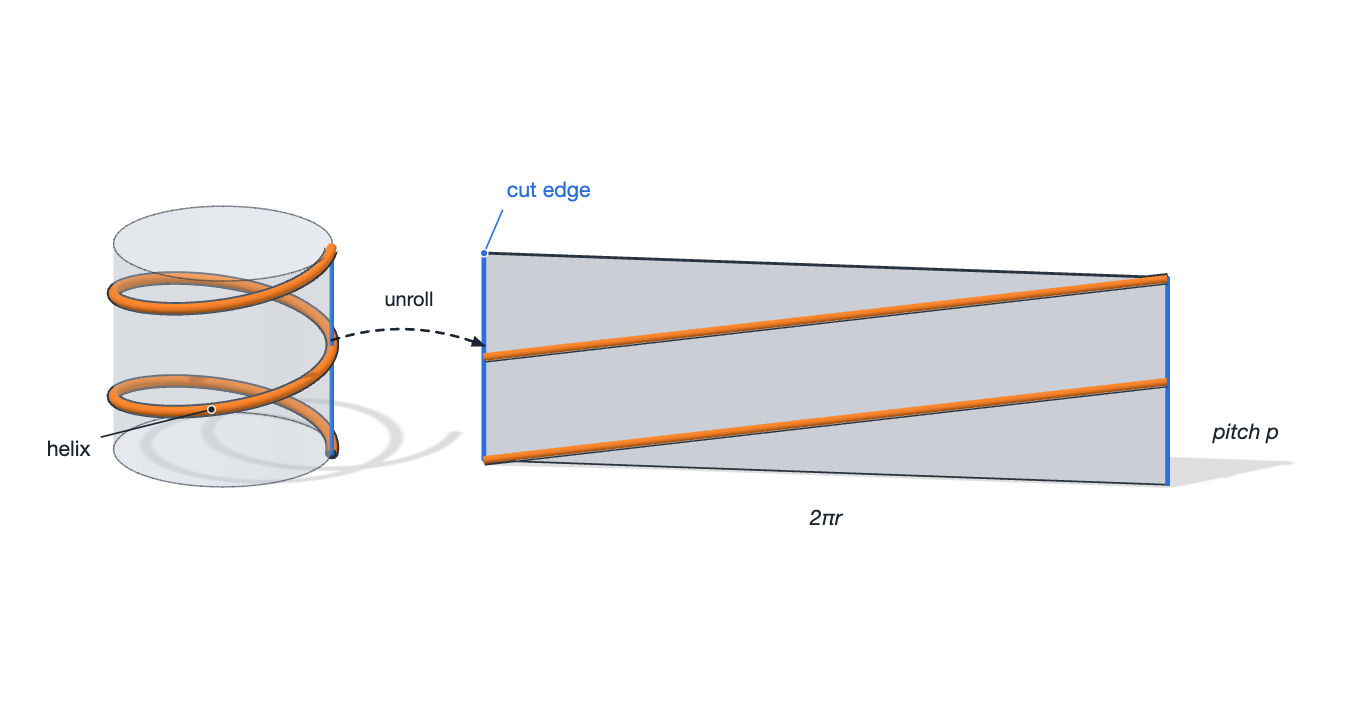
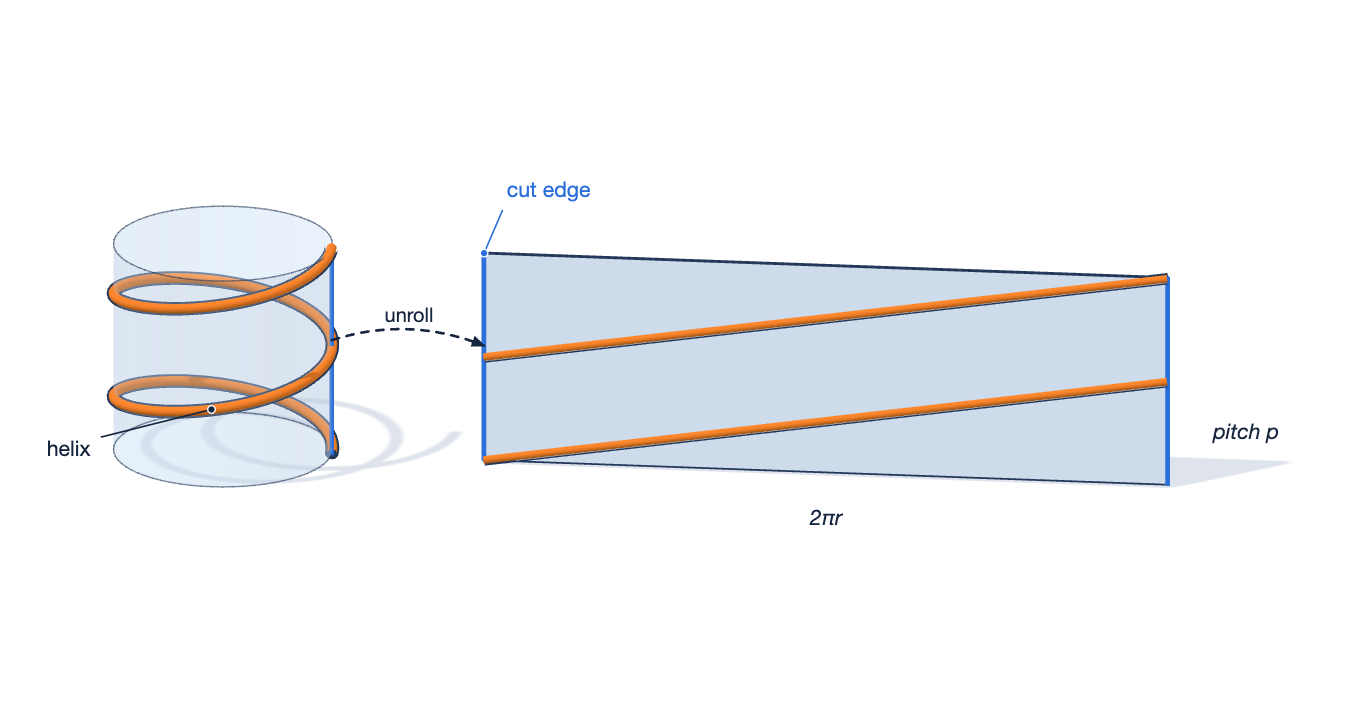
v1.0.1: remove grey defaults from the stage and add the unlit option
- Palette context colours are pale cool blues. The contact shadow has a
  blue tint (view option shadowColor). The default cap of a cut is darker
  and more saturated, not greyer.
- unlit: true draws a part in its exact colour with no shading and no
  shadow on it, for colours that carry a value.
- The guides tell the agent not to use grey and when to use unlit.

diff --git a/assets/gallery.html b/assets/gallery.html
@@ -35,7 +35,7 @@ dialog img{max-width:100%;height:auto;cursor:zoom-in}dialog img.native{max-width
 @media (prefers-reduced-motion:reduce){html{scroll-behavior:auto}}
 </style></head><body>
 <a class="skip" href="#atlas">Skip to the figures</a><main>
-<header class="intro"><p class="meta">MechanismFigures 1.0.0 · reference atlas</p>
+<header class="intro"><p class="meta">MechanismFigures 1.0.1 · reference atlas</p>
 <h1>See how it works.</h1>
 <p class="lead">42 published figures. Each one lets you predict what the system does next, from the picture alone. 37 of them do it in three dimensions. Read the title, open the image, and follow the three steps.</p>
 <p class="links"><a href="https://github.com/KumarNavish/MechanismFigures">Install the skill</a><a href="../SKILL.md">How the agent works</a><a href="../references/moves.md">The fifteen moves</a><a href="../THIRD_PARTY.md">Sources and rights</a></p></header>

diff --git a/SKILL.md b/SKILL.md
@@ -5,7 +5,7 @@ license: MIT for code and text. Third-party reference figures keep the licences 
 compatibility: The agent must be able to view images. The 3D stage needs Node 22 or later and an installed Chrome or Chromium. Reference lookup needs Python 3.9 or later. No network, model service or GPU is necessary.
 metadata:
   author: Navish Kumar
-  version: "1.0.0"
+  version: "1.0.1"
 ---
 
 # MechanismFigures
@@ -51,7 +51,7 @@ Write three lists.
 
 - **The persistent object.** One thing that the eye follows through the full figure: a ray, a residue pair, a cell, a sheet, a weight vector. It keeps its colour and its identity in each panel.
 - **The operation.** The one event that carries the explanation. It gets the strongest colour and the most space.
-- **The context.** All other items. They are grey, thin and quiet.
+- **The context.** All other items. They are pale, thin and quiet. Use the pale cool context colour of the palette. Do not use grey.
 
 For each item, record its status: **measured**, **simulated**, **derived from an equation**, or **schematic**. You will show this status in the figure. See [truth.md](references/truth.md).
 
@@ -113,7 +113,7 @@ node scripts/render.mjs figure.mjs --out out
 
 The renderer writes `figure.png`, `figure.svg` with editable labels, four detail tiles, a grayscale copy and a report.
 
-- **Pass A, blockout.** Grey primitives only. No colour, no labels. Set the camera. Render and look. The operation must be visible in grey. If it is not, change the construction or the camera. Do not continue.
+- **Pass A, blockout.** Primitives in the one pale context colour only. No strong colour, no labels. Set the camera. Render and look. The operation must be visible from shape alone. If it is not, change the construction or the camera. Do not continue.
 - **Pass B, meaning.** Give the persistent object and the operation their colours. Add ghosts, cuts, tethers, arrows and fields. Render and look.
 - **Pass C, words.** Add labels, panel letters and the minimum text. Render and look.
 
@@ -140,7 +140,7 @@ Stop when all seven questions pass and the figure is as clear as the references 
 ## Rules that do not bend
 
 - **Orthographic camera by default.** Parallel lines stay parallel and equal lengths stay equal in one direction. Use perspective only for a scene that a camera or an eye sees, and say so.
-- **One colour, one meaning, in all panels.** Grey is context. Do not add a colour that has no entry in your cast list.
+- **One colour, one meaning, in all panels.** Context is pale and cool, not grey. A colour that carries a value is `unlit`. Do not add a colour that has no entry in your cast list.
 - **Same camera for all states that the reader compares.** Change one thing only.
 - **Geometry from the source.** Use the real equation, coordinates or data when they exist. If you draw a schematic shape, label it as a schematic.
 - **Arrows have types.** A solid 3D arrow is a physical vector: a force, a flow, a ray. A flat overlay arrow is narrative: "then" or "becomes". Do not mix the two types in one style.

diff --git a/references/stage.md b/references/stage.md
@@ -40,7 +40,8 @@ export default function build(S, THREE, beat) { /* add objects */ }
 | `frame` | none | `{center, size}` in world units. Fixes the camera. Necessary for beats. |
 | `fov` | 0 | A value above 0 gives a perspective camera. Use it only for a scene that a camera sees. |
 | `ground` | true | `false` removes the shadow ground. A number sets its height. |
-| `shadow` | 0.13 | Opacity of the contact shadow |
+| `shadow` | 0.16 | Opacity of the contact shadow |
+| `shadowColor` | `palette.shade` | Colour of the contact shadow. The default is a deep blue, not black. |
 | `edgeWidth` | 0.28 | Outline width in millimetres |
 | `minFont` | 6.5 | The report warns below this size, in points |
 
@@ -62,9 +63,13 @@ All calls return a three.js object. You can set `position`, `rotation` and `scal
 | `S.arrow(a, b, opts)` | A solid 3D arrow. `radius`, `head`. |
 | `S.curve(points, opts)` | A line of constant width on the page. `width` in millimetres. `dash` in world units. |
 
-Options for solids: `color`, `opacity` (below 1 gives a ghost), `edges` (crease lines), `outline` (silhouette), `flat`, `roughness`, `side`, `id` (the name in the report), `parent`, `shadow` and `receive`.
+Options for solids: `color`, `opacity` (below 1 gives a ghost), `edges` (crease lines), `outline` (silhouette), `flat`, `roughness`, `side`, `id` (the name in the report), `parent`, `shadow`, `receive` and `unlit`.
 
 **Shadows and data.** A shadow on a cell or a field changes its tone, and the reader takes the tone for a value. `shadow: false` gives a part no shadow and lets no shadow fall on it. `receive: false` lets the part cast a shadow on the ground but keeps its own faces clean. Use `receive: false` for grids of cells, stacked slabs and all surfaces whose colour is data. `S.surface` with `value` does this automatically.
+
+**Exact colour.** Shading makes a colour darker, and a dark low value can look grey. `unlit: true` draws a part in its exact colour with no shading and no shadow on it. Use it on each surface or cell whose colour is a value. Keep `edges` on, or add a mesh of `S.curve` lines, so that the shape stays readable.
+
+**No grey.** The palette has no grey. `context` and `quiet` are pale cool blues, and the contact shadow has a blue tint (`shadowColor` in the view changes it). Do not set a grey colour for context.
 
 ## Operations
 
@@ -86,7 +91,7 @@ Labels are vector text on top of the render. Sizes are in points. Offsets are in
 
 ## Colour
 
-`S.palette` has `ink`, `line`, `context`, `quiet`, `focus`, `act`, `good`, `warn`, `violet` and `gold`. Import `ramps` and `ramp` from `'mf'` for fields: `ramps.viridis`, `ramps.magma`, `ramps.diverging`.
+`S.palette` has `ink`, `line`, `context`, `quiet`, `shade`, `focus`, `act`, `good`, `warn`, `violet` and `gold`. It has no grey. Import `ramps` and `ramp` from `'mf'` for fields: `ramps.viridis`, `ramps.magma`, `ramps.diverging`.
 
 ## Beats
 

diff --git a/references/moves.md b/references/moves.md
@@ -6,7 +6,7 @@ A move is a construction that makes an operation visible. Select the move from t
 
 **Shows** an operation inside a closed body.
 
-**Build.** Model the full body. Remove the part between the viewer and the operation with one plane, or with two planes for a quarter cut. Cap the section so that solid material looks solid. Keep the hidden operation in a strong colour and the body in grey.
+**Build.** Model the full body. Remove the part between the viewer and the operation with one plane, or with two planes for a quarter cut. Cap the section so that solid material looks solid. Keep the hidden operation in a strong colour and the body in the pale context colour.
 
 ```js
 const body = S.solid(geometry, {color: P.context});
@@ -104,10 +104,10 @@ S.sphere(samplePoint, 0.03, {color: P.act, outline: false});
 **Build.** Paint a scalar on the real surface with one colour ramp. For a vector field, draw arrows on a regular lattice or draw stream tubes. In a volume, show the field on two or three slice planes and on one isosurface. Give the ramp a legend with units. Use the diverging ramp only when zero has a meaning.
 
 ```js
-S.surface((u, v) => point(u, v), {value: (u, v, p) => field(p), range: [lo, hi], ramp: ramps.viridis});
+S.surface((u, v) => point(u, v), {value: (u, v, p) => field(p), range: [lo, hi], ramp: ramps.viridis, unlit: true});
 ```
 
-**Failures.** A rainbow ramp. Too many arrows. Light and shadow change the apparent value: for exact reading, add a flat panel of the same field.
+**Failures.** A rainbow ramp. Too many arrows. Light and shadow change the apparent value: set `unlit: true`, and for exact reading add a flat panel of the same field.
 
 **Study.** `zheng-hopfion`, `birch-skyrmion`, `graphcast`, `kennaway-growth`, `bioprint4d`.
 
@@ -137,7 +137,7 @@ S.surface((u, v) => point(u, v), {value: (u, v, p) => field(p), range: [lo, hi],
 
 **Build.** Draw the algebraic object as a block or a grid. Draw the things that the indices name. Use one colour for one entry in the two views. Highlight only the active terms.
 
-**Cells and slabs.** Draw a tensor as slabs of unit cells with a gap between slabs. Make each cell a thin box with crease lines. Give colour only to the cells that take part. Set `receive: false` on all cells, because a shadow on a cell looks like a different value.
+**Cells and slabs.** Draw a tensor as slabs of unit cells with a gap between slabs. Make each cell a thin box with crease lines. Give colour only to the cells that take part. Set `receive: false` on all cells, because a shadow on a cell looks like a different value. If the cell colour is a value, set `unlit: true`.
 
 ```js
 for (let c = 0; c < 3; c++) for (let i = 0; i < 6; i++) for (let j = 0; j < 6; j++)

diff --git a/references/critique.md b/references/critique.md
@@ -33,9 +33,11 @@ Write one sentence for each answer. Then repair the largest difference.
 | You see | Cause | Repair |
 |---|---|---|
 | The figure is a row of labelled boxes | No construction | Go back to step 4. Draw the object that the first box operates on. |
-| Everything has a strong colour | No cast list | Make all context grey. Give colour to two things only. |
+| Everything has a strong colour | No cast list | Give all context the pale context colour. Give strong colour to two things only. |
 | The eye goes to a shadow | Shadow too dark or too large | Lower `shadow` in the view, or set `shadow: false` on that part. |
 | Cells or data surfaces have uneven tones | A shadow falls on them | Set `receive: false` on those parts. |
+| Low values of a field look grey or dirty | Shading darkens the data colour | Set `unlit: true` on the surface. |
+| The figure looks grey | Grey context colours or a custom grey | Use `palette.context` and `palette.quiet`. Do not set a grey. |
 | Parts merge into one shape | Same tone, no outline, aligned edges | Change the azimuth by 5 to 10 degrees. Change the tone of one part. Keep the outlines. |
 | The operation is hidden inside | No access | Cut the body, or make it a ghost. |
 | The cut looks like a missing piece, not a section | Cap has the tone of the skin | Give the cap a darker tone. Align the plane with an axis. |

diff --git a/references/craft.md b/references/craft.md
@@ -27,7 +27,8 @@ Do not use fog, depth of field, reflections, gloss, textures or gradients on the
 ## Material and colour
 
 - Materials are matte. Roughness 0.7, no metal. A shiny highlight looks like a data value.
-- **Grey is context.** `palette.context` and `palette.quiet`.
+- **Context is pale and cool, not grey.** Use `palette.context` and `palette.quiet`. Grey makes a figure look dead, and a shaded grey looks like a low data value. The contact shadow has a blue tint for the same reason.
+- **Data colour is exact.** Set `unlit: true` on a part when the reader must read a value from its colour. An unlit part has no shading, thus give it crease lines or a mesh so that its shape stays readable.
 - **One colour is the persistent object. One colour is the operation or intervention.** `palette.focus` (blue) and `palette.act` (orange) are a pair that stays distinct in grayscale and for colour-blind readers. Add a third colour only for a third entry in your cast list.
 - A colour keeps its meaning in all panels and in the caption.
 - A scalar field gets one ramp: `viridis` for magnitude, `diverging` when zero has a meaning. Show the ramp with units.

diff --git a/CHANGELOG.md b/CHANGELOG.md
@@ -1,5 +1,11 @@
 # Changelog
 
+## 1.0.1 — 2026-11-13
+
+- **No grey.** The palette context colours are pale cool blues. The contact shadow has a blue tint (`shadowColor`). The default cap of a cut is darker and more saturated, not greyer. The guides tell the agent not to use grey.
+- **`unlit` option.** `unlit: true` draws a part in its exact colour with no shading and no shadow on it. Use it when the reader must read a value from a colour.
+- Source of the change: the first use of version 1.0.0 on a paper, where shaded low values and grey context looked grey.
+
 ## 1.0.0 — 2026-11-13
 
 A rewrite with a strong bias for 3D.

diff --git a/references/story.md b/references/story.md
@@ -42,7 +42,7 @@ What the second page does, and the rule that follows.
 
 Use this sequence for an explainer, a talk, a scroll page, or the panels of a figure.
 
-1. **Establish.** The object, alone, grey, in its resting state. One label.
+1. **Establish.** The object, alone, in the pale context colour, in its resting state. One label.
 2. **Introduce the cast.** Name the persistent object. It gets its colour now.
 3. **Operate.** The operation occurs. One thing moves, cuts, folds or flows. This is the longest beat.
 4. **Consequence.** The result of the operation, in the same frame.
